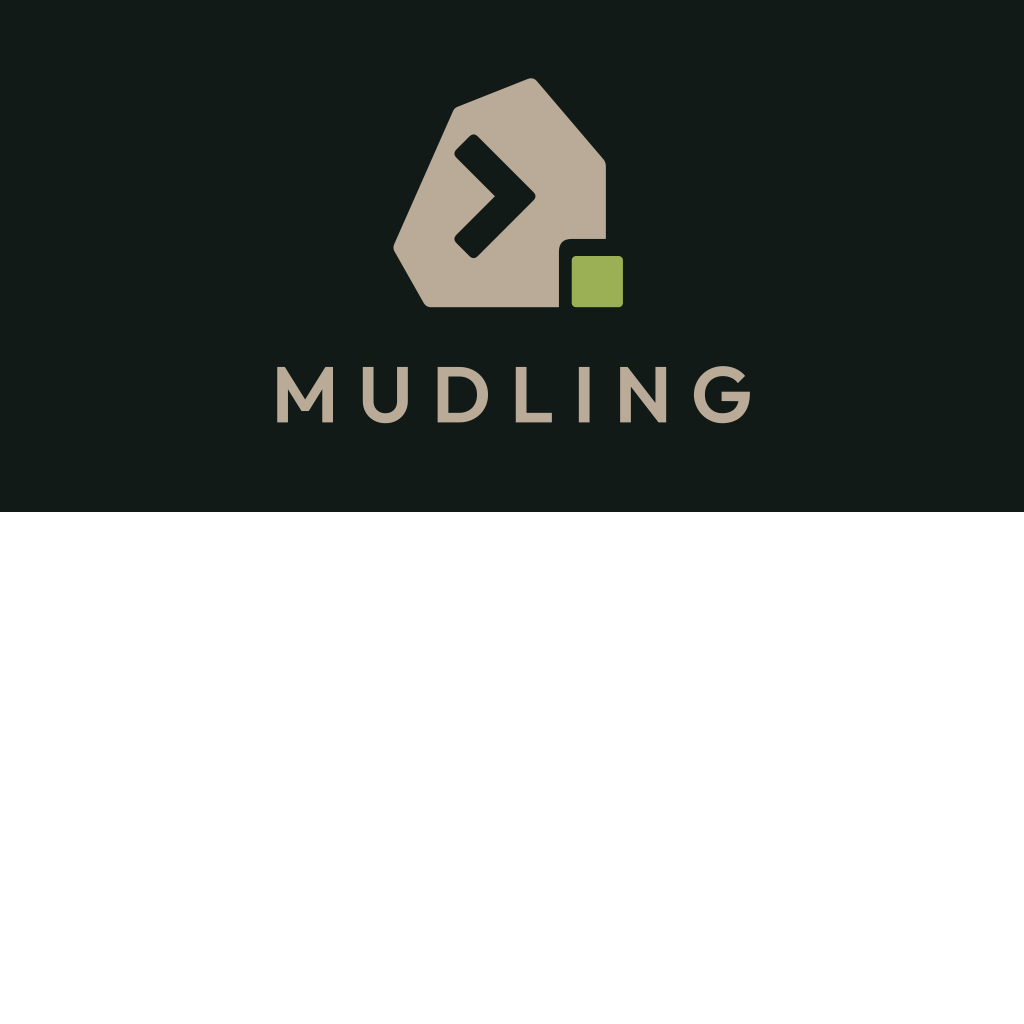
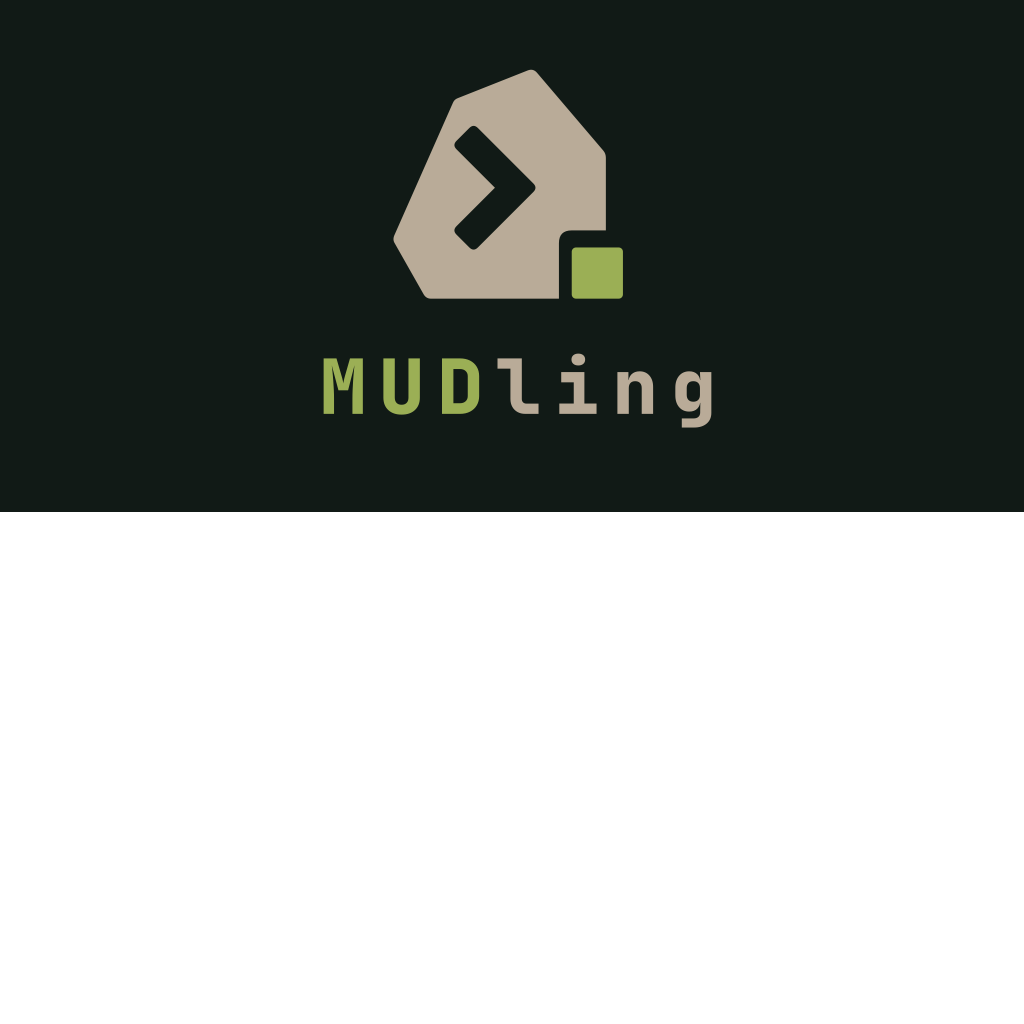
Wordmark: mixed-case MUDling in JetBrains Mono

diff --git a/README.md b/README.md
@@ -5,7 +5,7 @@
   </picture>
 </p>
 
-**Mudling** is a touch-first, open-source MUD client. A mudling is a small
+**MUDling** is a touch-first, open-source MUD client. A mudling is a small
 creature of living mud — and MUD is where it lives: exits become a D-pad,
 the things in the room become tappable, and commands compose by touch
 instead of typing. Protocol-aware (GMCP/MXP) and accessibility-first.
